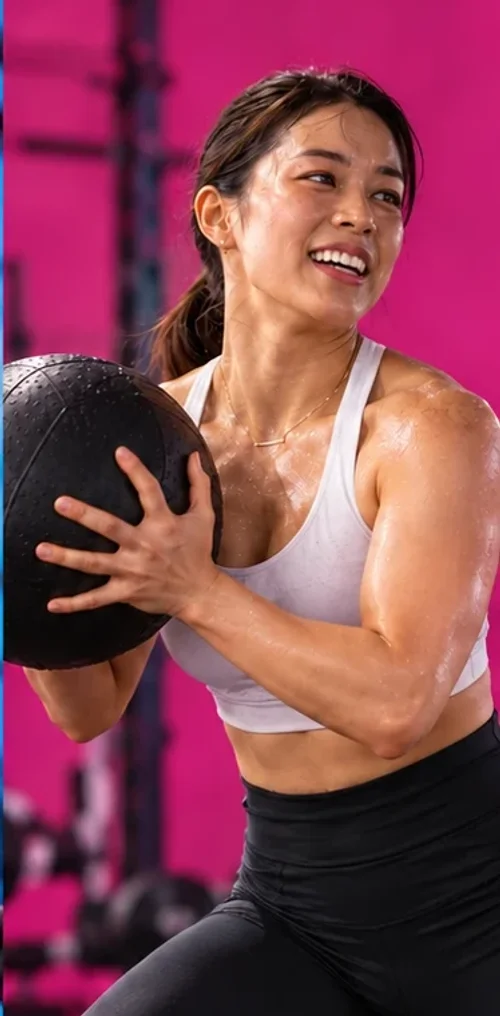
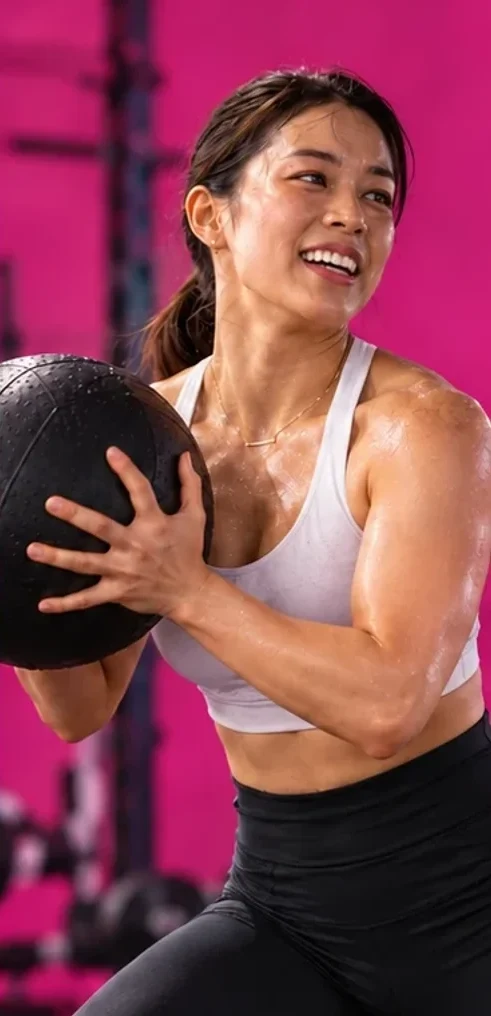
ジムについてページのコンセプトカードに写真を追加し、メディシンボール写真の端の色帯を除去

diff --git a/src/pages/About.tsx b/src/pages/About.tsx
@@ -282,8 +282,8 @@ const worries = [
 ];
 
 const conceptCards = [
-  { title: "キックボクシング", text: "パンチ・キックをミットやサンドバッグに打ち込む爽快感。ストレス発散にも。" },
-  { title: "ファンクショナルトレーニング", text: "バトルロープやメディシンボールなどを使い、日常動作につながる全身の動きを鍛えます。" },
+  { image: "/images/ig-reel-kick-yellow.webp", position: "center 28%", alt: "グローブをつけてパンチを打ち込む女性", title: "キックボクシング", text: "パンチ・キックをミットやサンドバッグに打ち込む爽快感。ストレス発散にも。" },
+  { image: "/images/ig-reel-medball-pink.webp", position: "center 18%", alt: "メディシンボールを持ってトレーニングする女性", title: "ファンクショナルトレーニング", text: "バトルロープやメディシンボールなどを使い、日常動作につながる全身の動きを鍛えます。" },
 ];
 
 const whoCards = [
@@ -434,9 +434,18 @@ export default function About() {
           <motion.div initial="hidden" whileInView="visible" viewport={{ once: true }} variants={staggerContainer} className="flex flex-col md:flex-row gap-6 items-stretch">
             {conceptCards.map((card, i) => (
               <Fragment key={card.title}>
-                <motion.div variants={fadeInUp} className="flex-1 min-w-0 bg-white rounded-md p-6 border border-gray-100">
-                  <h3 className="font-bold text-[#4D5058] text-xl mb-4">{t(card.title)}</h3>
-                  <p className="text-[#4D5058]/70 text-sm sm:text-base leading-relaxed">{t(card.text)}</p>
+                <motion.div variants={fadeInUp} className="flex-1 min-w-0 bg-white rounded-md overflow-hidden border border-gray-100 shadow-sm">
+                  <img
+                    src={card.image}
+                    alt={t(card.alt)}
+                    loading="lazy"
+                    className="w-full aspect-[4/3] object-cover"
+                    style={{ objectPosition: card.position }}
+                  />
+                  <div className="p-6">
+                    <h3 className="font-bold text-[#4D5058] text-xl mb-4">{t(card.title)}</h3>
+                    <p className="text-[#4D5058]/70 text-sm sm:text-base leading-relaxed">{t(card.text)}</p>
+                  </div>
                 </motion.div>
                 {i === 0 && <motion.span variants={scaleIn} className="self-center text-5xl font-bold text-[#F2AC55]">×</motion.span>}
               </Fragment>
